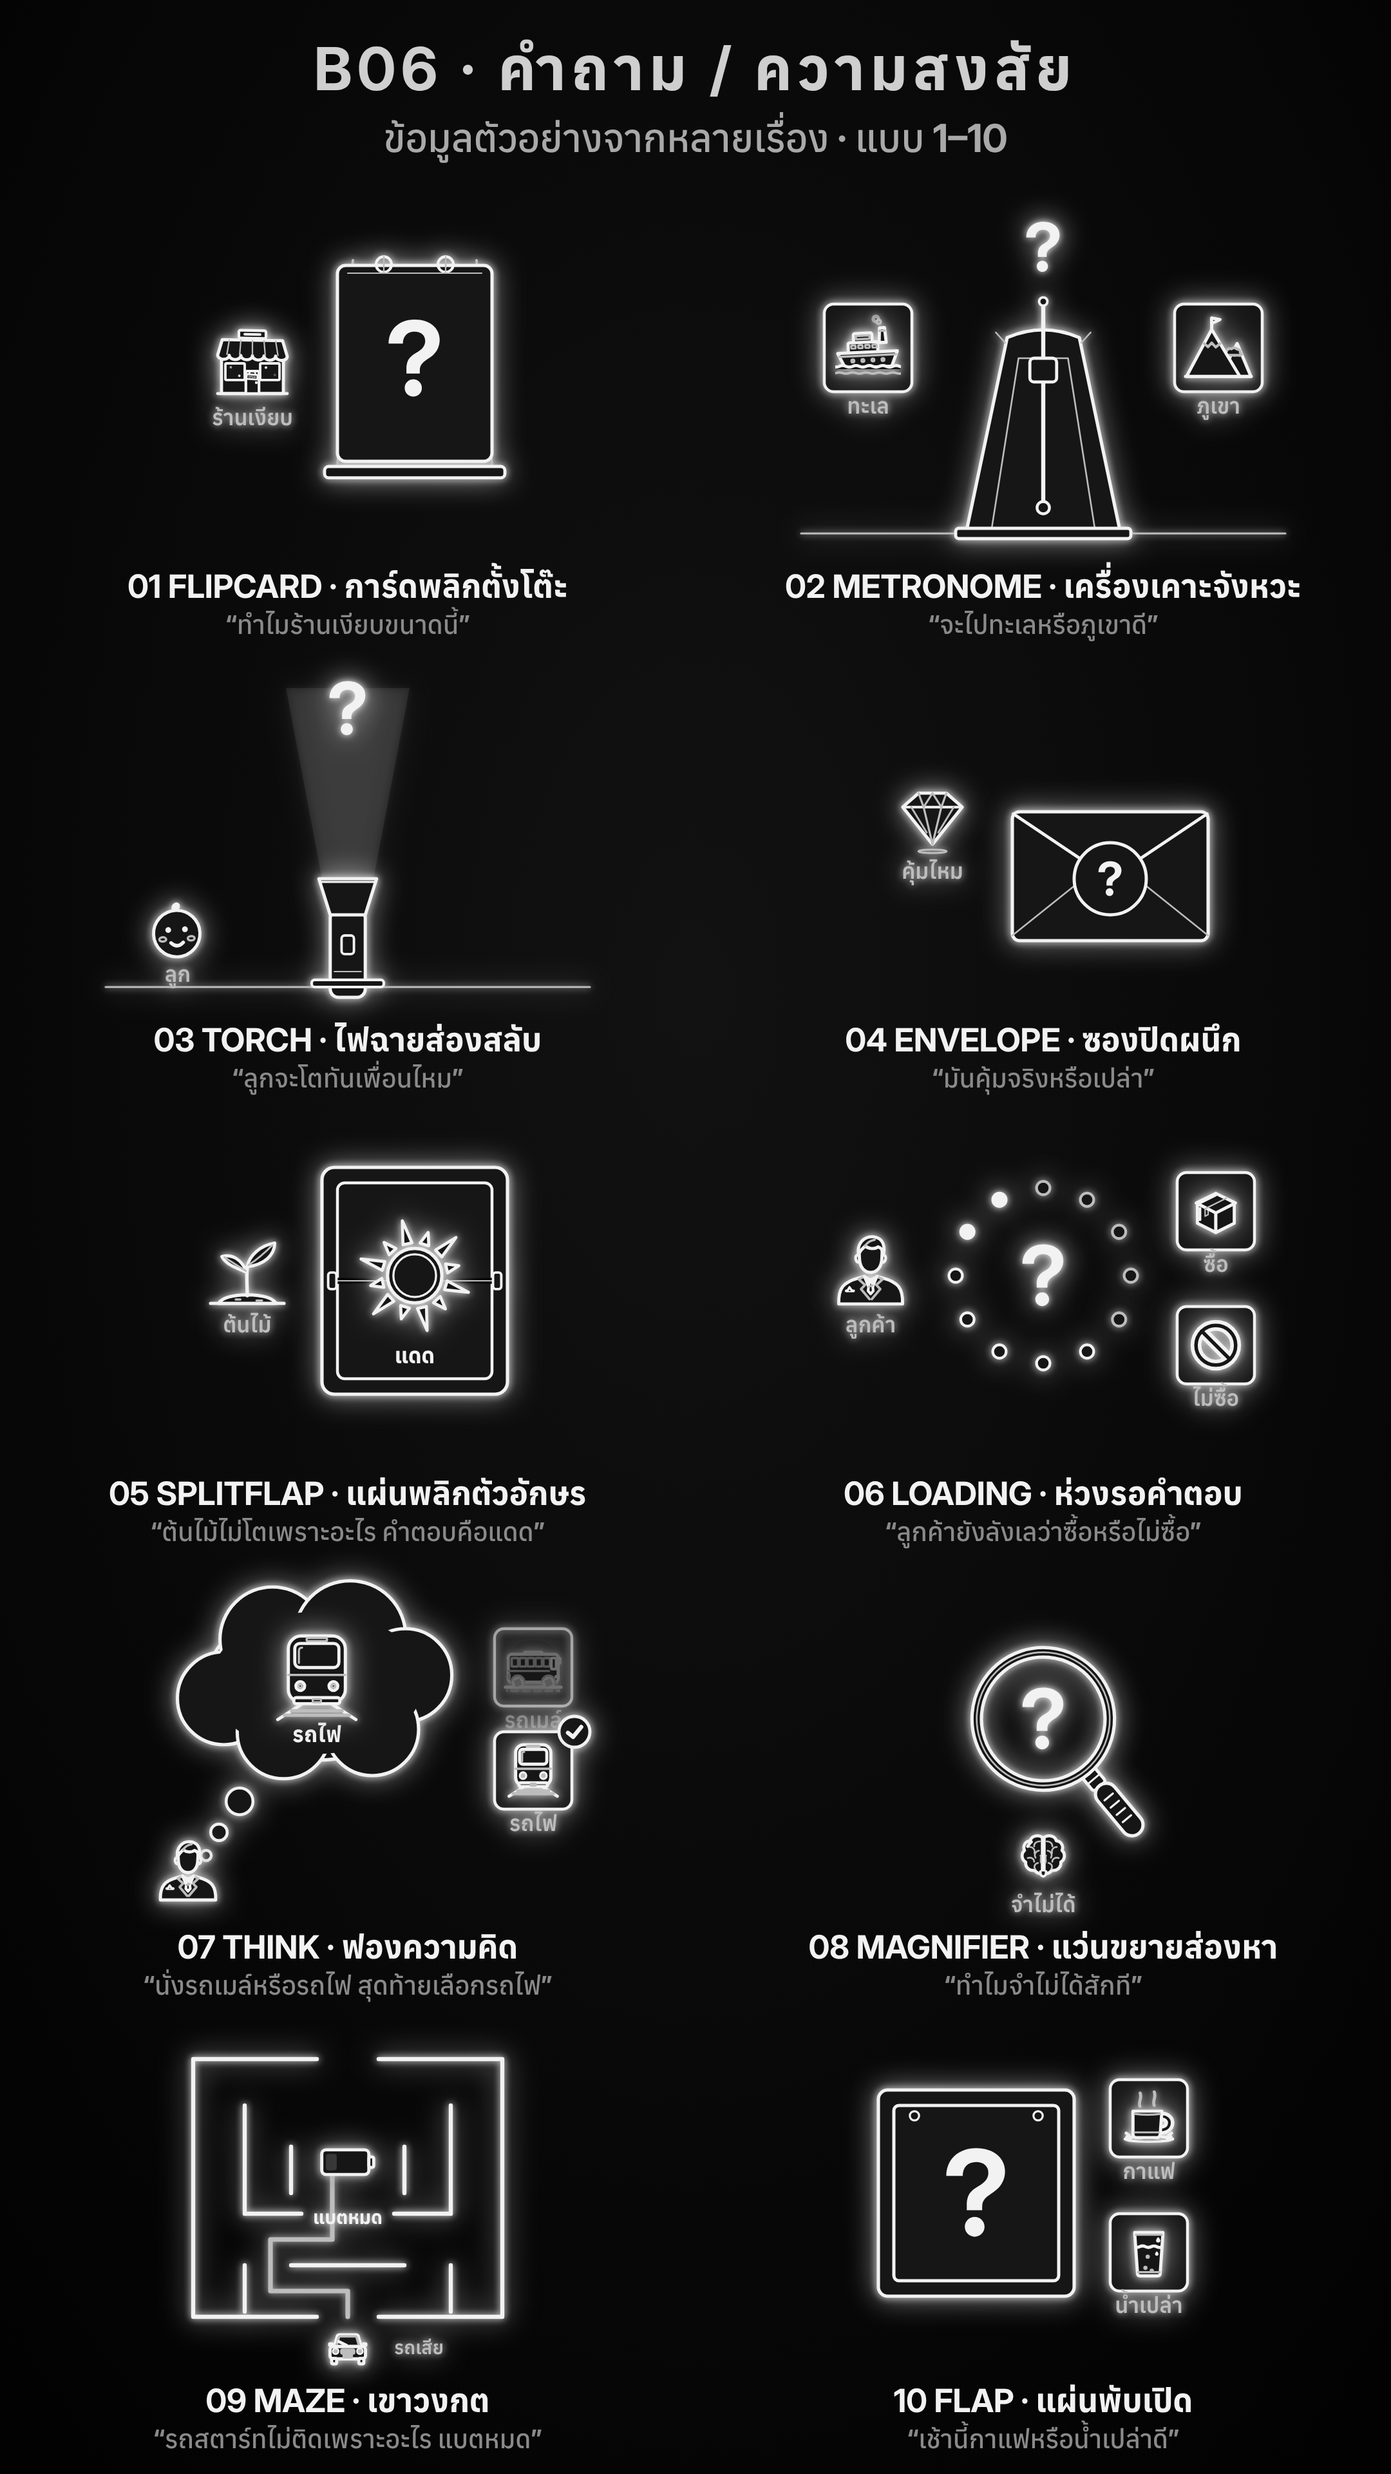
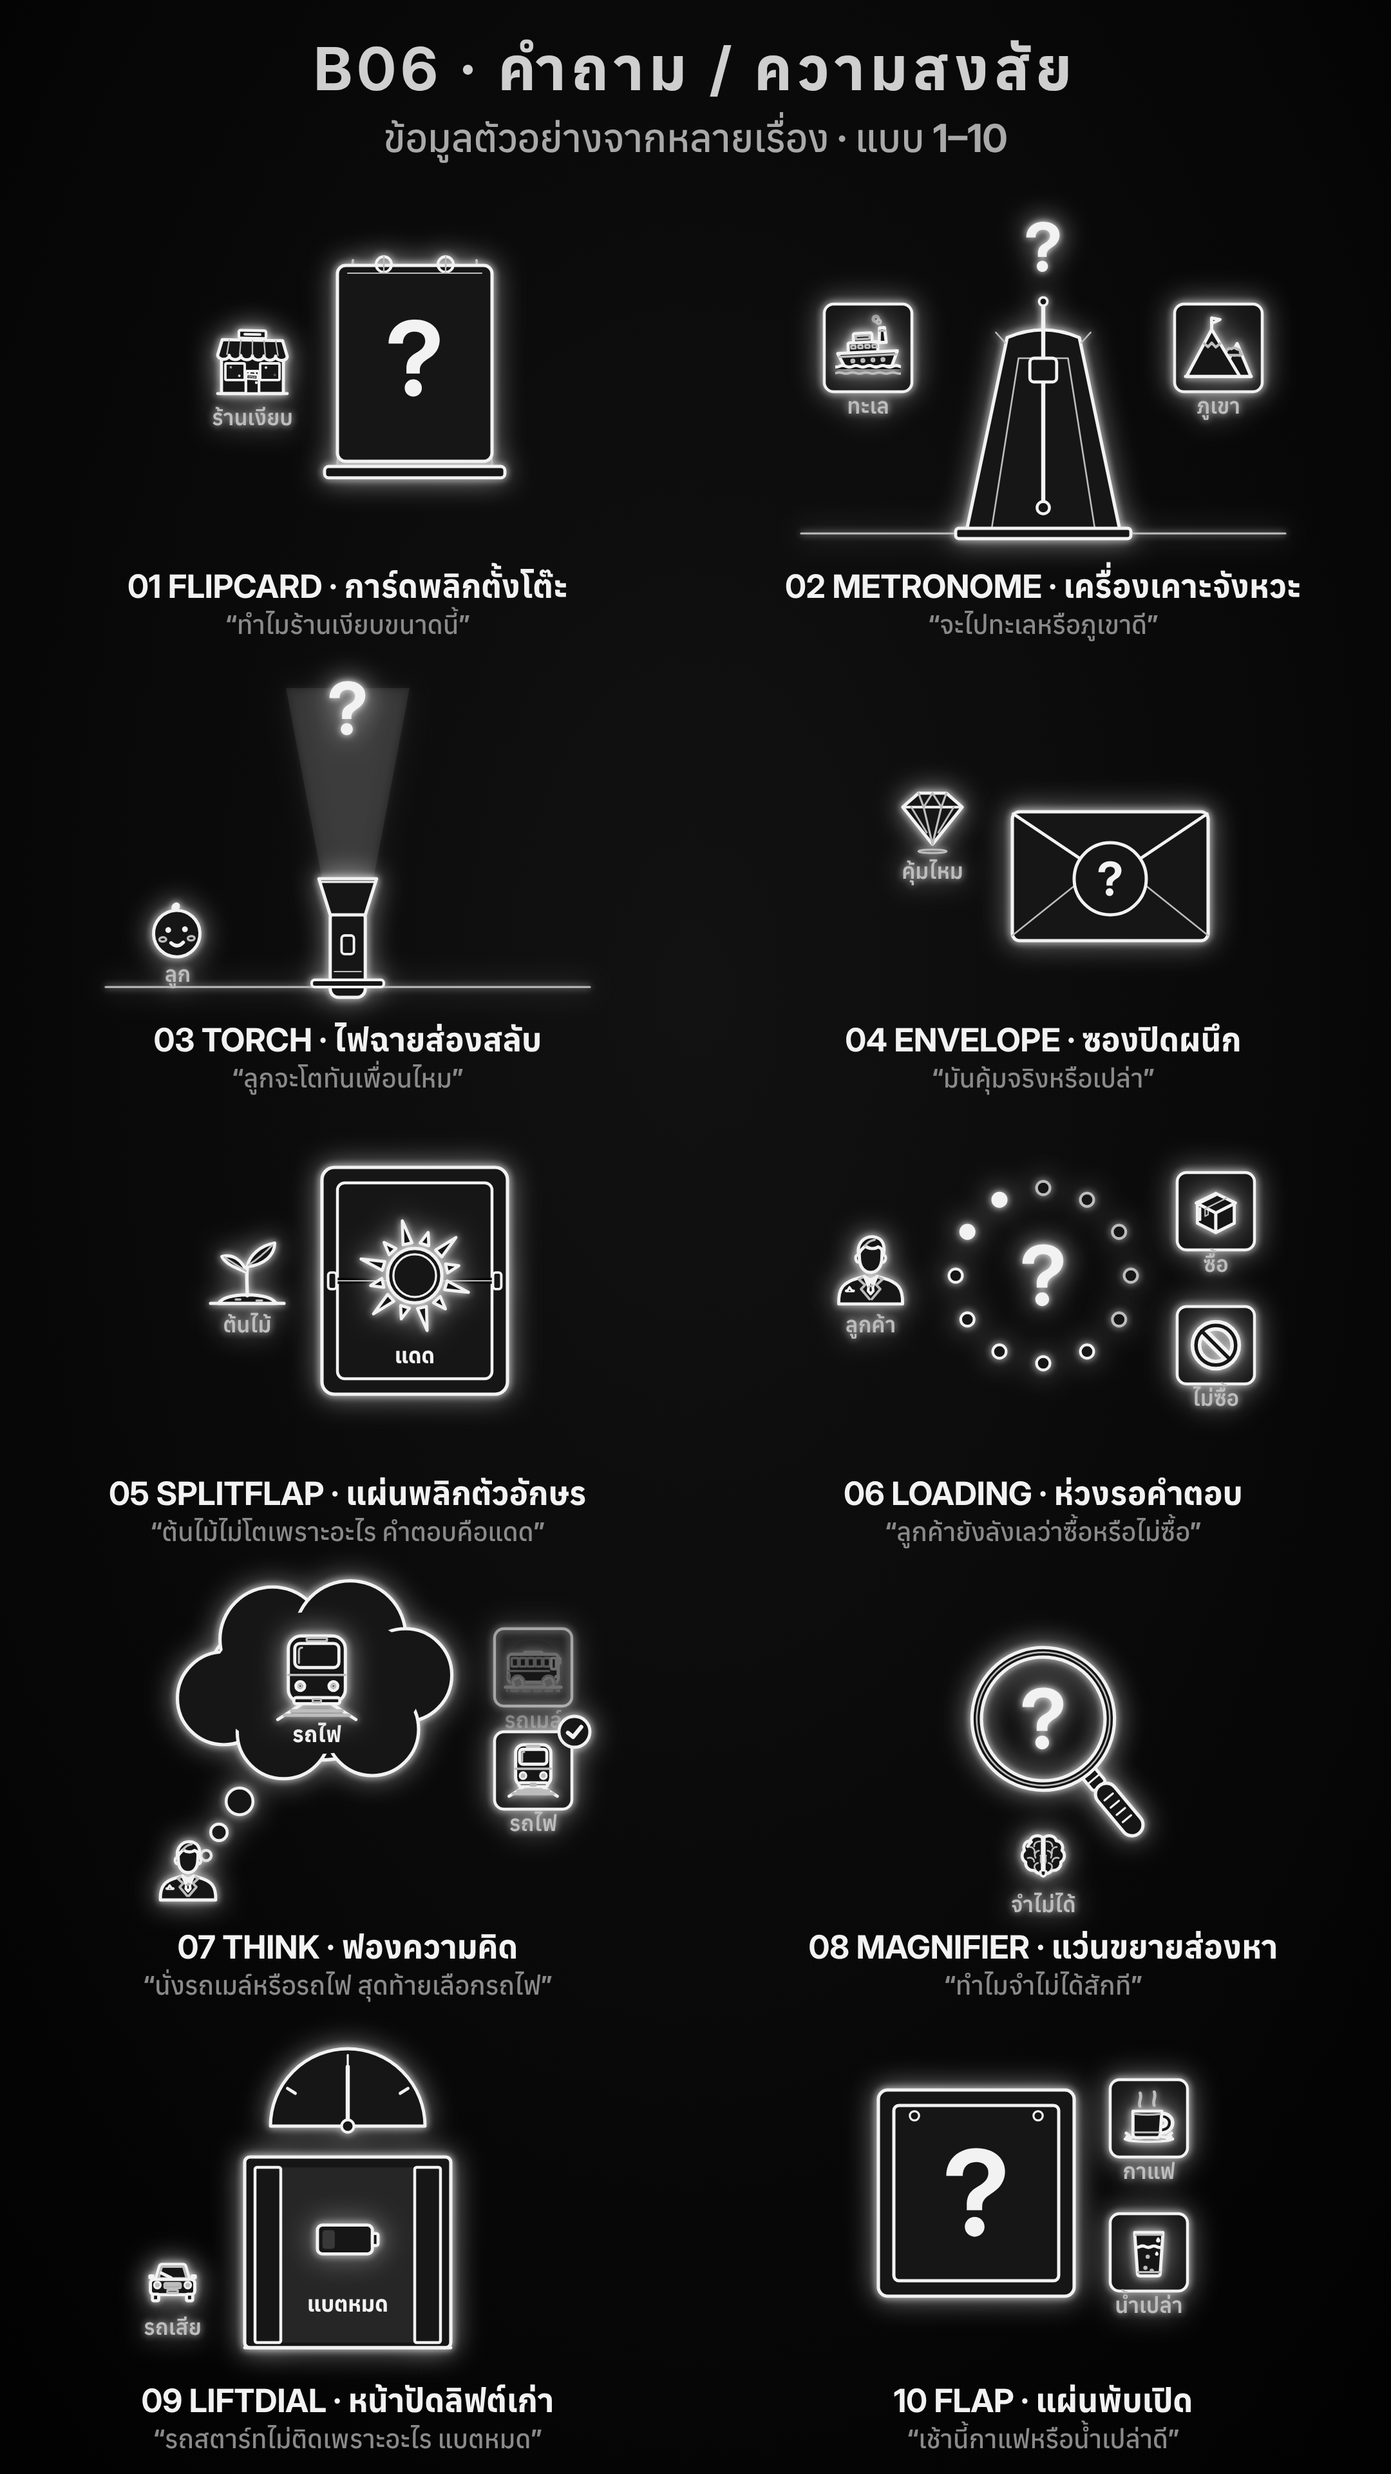
glow-line-motion: B06 design 09 = old lift dial (user's pick B), maze and the other options removed; HANDOFF
Claude-Session: https://claude.ai/code/session_014abtgsUW7tfXuy14XVyMG7

Changed region(s): [[0.0931, 0.8125, 0.3722, 1.0]]

diff --git a/.claude/skills/glow-line-motion/examples/b06/b06.js b/.claude/skills/glow-line-motion/examples/b06/b06.js
@@ -222,22 +222,21 @@
     over(c, p => { const g = sub(p); atT(g, p, .1); magnifier(g, at[0], at[1], 120, 50); if (S0.chose) tick(p, at[0] + 105, at[1] - 125); });
   });
 
-  /* 09 ── MAZE: the path wanders into the maze — on the keyword it comes out at the chosen exit; with no answer it stops at the "?" in the middle */
-  variant('maze', 'เขาวงกต', (d, c) => {
-    const S0 = st(d), M0 = 300;
+  /* 09 ── OLD LIFT DIAL (user's pick 2026-11-13, replaces the maze): the needle over the lift doors swings between the two options —
+     on the keyword the doors open on the answer (the "?" on the doors becomes the answer in the same place, the same size) */
+  variant('liftdial', 'หน้าปัดลิฟต์เก่า', (d, c) => {
+    const S0 = st(d), open = !!S0.ans, ang = S0.chose ? (S0.ai === 0 ? -58 : 58) : 0, dc = [0, -170];
     art(c, p => {
       const B = sub(p); atT(B, p, 0);
-      B.path(`M -${M0} -${M0 - 40} L -60 -${M0 - 40} M 60 -${M0 - 40} L ${M0} -${M0 - 40} L ${M0} ${M0 - 60} L 60 ${M0 - 60} M -60 ${M0 - 60} L -${M0} ${M0 - 60} L -${M0} -${M0 - 40}`, W(5));    // outer wall: exits top (2), entrance bottom
-      if (S0.has2) B.line(0, -(M0 - 40), 0, -150, W(5));
-      [[-200, -170, -200, 40], [-200, 40, -90, 40], [200, -170, 200, 40], [90, 40, 200, 40], [-110, 140, 110, 140], [-110, -90, -110, 0], [110, -90, 110, 0], [-200, 140, -200, 230], [200, 140, 200, 230]].forEach(([a, b, e, f]) => B.line(a, b, e, f, W(5)));
-      const route = S0.chose ? (S0.ai === 0 ? 'M 0 240 L 0 190 L -150 190 L -150 90 L -250 90 L -250 -210 L -60 -210 L -40 -290' : 'M 0 240 L 0 190 L 150 190 L 150 90 L 250 90 L 250 -210 L 60 -210 L 40 -290')
-        : 'M 0 240 L 0 190 L -150 190 L -150 90 L -30 90 L -30 -40';
-      const pr = sub(p); pr.path(route, { sw: 6, stroke: C.soft }); atT(pr, p, .2);
-      if (!S0.chose) qSpot(p, c, S0, 0, -60, 120, { ly: null }); else tick(p, S0.ai === 0 ? -150 : 150, -320, 26);
-      if (S0.has2) [-1, 1].forEach((s, k) => optAt(p, c, S0, k, s * 410, -230, 110, -150, { maxW: 170 }));
-      if (S0.ans && !S0.chose && S0.ans.label && picOf(S0.ans)) lab(sub(p), S0.ans, 0, 60, { color: C.ink, weight: 700, maxW: 200, size: 36 });
-      aboutAt(p, c, S0, 0, 300, 80, null);
-      if (S0.about && S0.about.label && picOf(S0.about)) lab(sub(p), S0.about, 90, 312, { anchor: 'start', maxW: 300, size: 36 });
+      R(B, -200, -70, 400, 370, 10, F(3.4)); B.line(-200, 300, 200, 300, W(3));                                                   // door frame
+      B.path(`M ${dc[0] - 150} ${dc[1] + 40} A 150 150 0 0 1 ${dc[0] + 150} ${dc[1] + 40} Z`, F(3.2));                                // dial
+      [-58, 0, 58].forEach(a => { const u = rad(a - 90); B.line(f1(dc[0] + Math.cos(u) * 120), f1(dc[1] + 40 + Math.sin(u) * 120), f1(dc[0] + Math.cos(u) * 138), f1(dc[1] + 40 + Math.sin(u) * 138), W(a ? 3 : 2)); });
+      const N = rot(B, ang, dc[0], dc[1] + 40); N.line(dc[0], dc[1] + 40, dc[0], dc[1] - 75, W(5)); B.circle(dc[0], dc[1] + 40, 12, F(2.6));
+      if (open) { R(B, -180, -50, 50, 340, 4, F(2.8)); R(B, 130, -50, 50, 340, 4, F(2.8)); const lt = sub(B); R(lt, -130, -50, 260, 340, 4, { fill: GLASS, sw: 0, stroke: 'none' }); atT(lt, p, hitOf()); }   // doors slid open
+      else { R(B, -180, -50, 178, 340, 4, F(2.8)); R(B, 2, -50, 178, 340, 4, F(2.8)); }
+      qSpot(p, c, S0, 0, 90, 140, { ly: 230 });
+      if (S0.has2) [-1, 1].forEach((s, k) => { optAt(p, c, S0, k, s * 330, -230, 110, -140, { maxW: 200 }); if (S0.ai === k) tick(p, s * 330 + 75, -295, 26); });
+      aboutAt(p, c, S0, S0.has2 ? -370 : -340, 170, 100, 275, { maxW: 200 });
     });
   });
 
@@ -404,55 +403,6 @@
     });
   });
 
-  /* ---------- replacement options for design 09 (user 2026-11-13: "Design 09 ใหม่") — GL.cats.B06.ALT09 ---------- */
-  const ALT09 = [];
-  /* A ── PENDULUM: a "?" bob swings from one option to the other — on the keyword it stops toward the chosen one (or hangs still on "?") */
-  ALT09.push({ id: 'pendulum', th: 'ลูกตุ้มแขวน', build: (d, c) => {
-    const S0 = st(d), ang = S0.chose ? (S0.ai === 0 ? 24 : -24) : 0, px = 0, py = -300, L0 = 330, bx = px - Math.sin(rad(ang)) * L0, by = py + Math.cos(rad(ang)) * L0;
-    art(c, p => {
-      const B = sub(p); atT(B, p, 0); R(B, -330, -338, 660, 26, 8, F(3)); [-300, 300].forEach(x => B.path(`M ${x} -312 L ${x} -280`, W(3)));
-      B.path(`M ${px - 30} -312 L ${px} -290 L ${px + 30} -312`, F(2.6));
-      const A = rot(B, ang, px, py); A.line(px, py, px, py + L0 - 80, W(4)); A.circle(px, py, 10, F(2.6)); A.circle(px, py + L0, 80, F(3.4)); A.circle(px, py + L0, 66, S(1.4));
-      if (!S0.chose) qSpot(p, c, S0, px, py + L0, 110, { ly: py + L0 + 125 });
-      else { const it = S0.opts[S0.ai]; pic(it, bx, by, 100, c, { punch: true }); }
-      if (S0.has2) [-1, 1].forEach((s, k) => { optAt(p, c, S0, k, s * 360, 90, 120, null, { frame: 160 }); if (S0.ai === k) tick(p, s * 360 + 85, 5); });
-      aboutAt(p, c, S0, S0.has2 ? 0 : -300, S0.has2 ? 285 : 40, 90, null);
-      if (S0.about && S0.about.label && picOf(S0.about)) lab(sub(p), S0.about, S0.has2 ? 70 : -300, S0.has2 ? 298 : 150, { anchor: S0.has2 ? 'start' : 'middle', maxW: 260, size: 36 });
-    });
-  } });
-  /* B ── OLD LIFT DIAL: the needle over the lift doors swings between the two options — on the keyword the doors open on the answer
-     (the "?" on the doors becomes the answer in the same place) */
-  ALT09.push({ id: 'liftdial', th: 'หน้าปัดลิฟต์เก่า', build: (d, c) => {
-    const S0 = st(d), open = !!S0.ans, ang = S0.chose ? (S0.ai === 0 ? -58 : 58) : 0, dc = [0, -170];
-    art(c, p => {
-      const B = sub(p); atT(B, p, 0);
-      R(B, -200, -70, 400, 370, 10, F(3.4)); B.line(-200, 300, 200, 300, W(3));                                                   // door frame
-      B.path(`M ${dc[0] - 150} ${dc[1] + 40} A 150 150 0 0 1 ${dc[0] + 150} ${dc[1] + 40} Z`, F(3.2));                                // dial
-      [-58, 0, 58].forEach(a => { const u = rad(a - 90); B.line(f1(dc[0] + Math.cos(u) * 120), f1(dc[1] + 40 + Math.sin(u) * 120), f1(dc[0] + Math.cos(u) * 138), f1(dc[1] + 40 + Math.sin(u) * 138), W(a ? 3 : 2)); });
-      const N = rot(B, ang, dc[0], dc[1] + 40); N.line(dc[0], dc[1] + 40, dc[0], dc[1] - 75, W(5)); B.circle(dc[0], dc[1] + 40, 12, F(2.6));
-      if (open) { R(B, -180, -50, 50, 340, 4, F(2.8)); R(B, 130, -50, 50, 340, 4, F(2.8)); const lt = sub(B); R(lt, -130, -50, 260, 340, 4, { fill: GLASS, sw: 0, stroke: 'none' }); atT(lt, p, hitOf()); }   // doors slid open
-      else { R(B, -180, -50, 178, 340, 4, F(2.8)); R(B, 2, -50, 178, 340, 4, F(2.8)); }
-      qSpot(p, c, S0, 0, 90, 140, { ly: 230 });
-      if (S0.has2) [-1, 1].forEach((s, k) => { optAt(p, c, S0, k, s * 330, -230, 110, -140, { maxW: 200 }); if (S0.ai === k) tick(p, s * 330 + 75, -295, 26); });
-      aboutAt(p, c, S0, S0.has2 ? -370 : -340, 170, 100, 275, { maxW: 200 });
-    });
-  } });
-  /* C ── STEELYARD: the "?" weight slides along the beam from one option's end to the other — on the keyword it settles at the chosen end
-     (the beam tips that way); with no options it hangs in the middle */
-  ALT09.push({ id: 'steelyard', th: 'คันชั่งตุ้มเลื่อน', build: (d, c) => {
-    const S0 = st(d), tilt = S0.chose ? (S0.ai === 0 ? -6 : 6) : 0, wx = S0.chose ? (S0.ai === 0 ? -290 : 290) : 0, by = -190;
-    art(c, p => {
-      const B = sub(p); atT(B, p, 0); B.line(0, -350, 0, -300, W(3)); B.path('M -14 -300 Q 0 -280 14 -300', W(3)); B.circle(0, -270, 18, F(2.8));
-      const T = rot(B, tilt, 0, by); R(T, -400, by - 11, 800, 22, 10, F(3.2)); for (let x = -360; x <= 360; x += 60) if (x) T.line(x, by - 4, x, by + 4, S(1.4));
-      T.line(0, -270, 0, by, W(3));
-      const Wt = sub(T); Wt.line(wx, by + 11, wx, by + 50, W(3)); Wt.circle(wx, by + 11, 9, W(2.4)); Wt.path(`M ${wx - 80} ${by + 50} L ${wx + 80} ${by + 50} L ${wx + 95} ${by + 210} Q ${wx + 95} ${by + 225} ${wx + 80} ${by + 225} L ${wx - 80} ${by + 225} Q ${wx - 95} ${by + 225} ${wx - 95} ${by + 210} Z`, F(3.4));
-      if (!S0.chose) qSpot(p, c, S0, 0, by + 138, 120, { ly: by + 290 });
-      else pic(S0.opts[S0.ai], wx, by + 138 + Math.sin(rad(tilt)) * wx, 100, c, { punch: true });
-      if (S0.has2) [-1, 1].forEach((s, k) => { optAt(p, c, S0, k, s * 390, -290, 100, null, { frame: 130 }); if (S0.ai === k) tick(p, s * 390 + 70, -355, 24); });
-      aboutAt(p, c, S0, 0, 250, 90, null); if (S0.about && S0.about.label && picOf(S0.about)) lab(sub(p), S0.about, 70, 263, { anchor: 'start', maxW: 280, size: 36 });
-    });
-  } });
-
   /* samples from unrelated topics (neutrality) + a stress set */
   const I = (icon, label) => label ? { icon, label } : { icon };
   const SAMPLES = [
@@ -501,5 +451,5 @@
   ];
 
   G.cats = G.cats || {};
-  G.cats.B06 = { variants: V, SAMPLES, STRESS, draw: (i, d, c) => { setZ(c); CUR = V[i].id; V[i].build(d, c); }, CLAMPS, timing: c => (setZ(c), Object.assign({}, Z)), ALT09, drawAlt: (alt, i, d, c) => { setZ(c); CUR = alt[i].id; alt[i].build(d, c); } };
+  G.cats.B06 = { variants: V, SAMPLES, STRESS, draw: (i, d, c) => { setZ(c); CUR = V[i].id; V[i].build(d, c); }, CLAMPS, timing: c => (setZ(c), Object.assign({}, Z)) };
 })();

diff --git a/.claude/skills/glow-line-motion/HANDOFF.md b/.claude/skills/glow-line-motion/HANDOFF.md
@@ -117,11 +117,13 @@
   คำตอบเป็นตัวเลือก → ตัวเลือกนั้นได้ ✓ อีกอันจาง .38 (กลไกบางแบบชี้/หย่อน/ล้มไปทางตัวเลือกนั้นแทน "?") · คำตอบไม่อยู่ในตัวเลือก → ทั้งสองจาง.
   ไม่มีไอคอน / ชื่อไอคอนไม่มีจริง → ป้ายตัวใหญ่แทนภาพ. เลย์เอาต์ `cols()` = [about] [ของหลัก] [ตัวเลือกซ้อน 2 ช่อง] จัดกลางตามที่มี.
 - 20 แบบ: 01 flipcard การ์ดพลิกตั้งโต๊ะ · 02 metronome เครื่องเคาะจังหวะ · 03 torch ไฟฉายส่องสลับ · 04 envelope ซองปิดผนึก · 05 splitflap แผ่นพลิกตัวอักษร ·
-  06 loading ห่วงรอคำตอบ · 07 think ฟองความคิด · 08 magnifier แว่นขยายส่องหา · 09 maze เขาวงกต · 10 flap แผ่นพับเปิด · 11 cursor เคอร์เซอร์ลังเล ·
+  06 loading ห่วงรอคำตอบ · 07 think ฟองความคิด · 08 magnifier แว่นขยายส่องหา · 09 liftdial หน้าปัดลิฟต์เก่า · 10 flap แผ่นพับเปิด · 11 cursor เคอร์เซอร์ลังเล ·
   12 track รางลูกบอลโยก · 13 book หนังสือพลิกหน้า · 14 picker วงล้อเลือก · 15 binoculars กล้องส่องทางไกล · 16 top ลูกข่างโยก · 17 slots การ์ดหย่อนช่อง ·
   18 bulb หลอดไฟคำตอบ · 19 note กระดาษพับคลี่ · 20 projector เครื่องฉายสไลด์.
 - บั๊กที่เจอระหว่างทำ (กันซ้ำ): `rot()` + `atT()` บนกลุ่มเดียวกัน = การหมุนหาย (ลูกข่างไม่ล้ม ไฟฉายไม่หัน) → `rot()` ทำสองชั้นแล้ว (`og`) ·
   "?" ขนาดเล็กมากยังเหลือจุด → `qSpot` ไม่วาดเมื่อ sz < 1 · ป้ายตัวเลือกทับกรอบ → ป้ายอยู่ใต้กรอบเสมอ.
+- ผู้ใช้ **"Design 09 ใหม่"** (เขาวงกต) → เสนอ 3 ทาง (A ลูกตุ้มแขวน · B หน้าปัดลิฟต์เก่า · C คันชั่งตุ้มเลื่อน) → ผู้ใช้ **"B"** →
+  แบบ 09 = `liftdial`: เข็มเหนือประตูลิฟต์ส่ายระหว่าง 2 ตัวเลือก · ตรงคำสำคัญประตูเปิด คำตอบอยู่ตรงที่ "?" บนประตู (ที่เดิม ขนาดเดิม). maze และตัวเลือกอื่นลบแล้ว.
 - ถัดไป: ผู้ใช้เลือก → แบบที่ไม่ชอบเสนอ 3 ทาง → ผ่านแล้วใส่ท่า (ของเข้า → กลไกลังเลสลับ 2 ตัวเลือก ≤ 2 รอบ / ครุ่นคิดรอบ "?" →
   ตรงคำสำคัญ "?" คลี่เป็นคำตอบ หรือค้างเด่น → ค้าง → ออก) → วิดีโอ.
 
